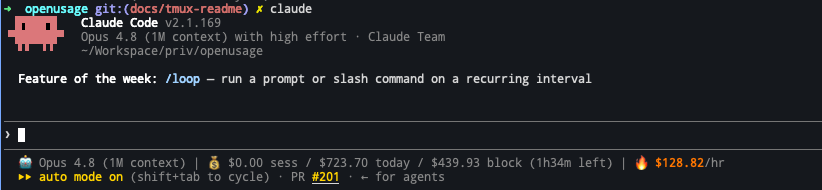
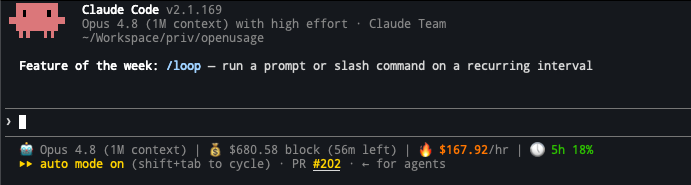
docs(statusline): add install gif, use the in-context screenshot, strengthen SEO
- README + docs guide: embed assets/statusline-install.gif (configurator in
  action, 5s–30s @ 2x, ~490KB) and swap to the in-context Claude Code screenshot
  (shows the live statusline incl. the 5h usage gauge); replaced the ASCII mock
  in the guide with the gif.
- SEO: surface both the tmux and statusline integrations more strongly — note
  their interactive live-preview installers and the 5h usage-window % in the
  JSON-LD featureList + FAQ, the website description, and llms.txt capabilities;
  add the tmux and statusline guide URLs to llms.txt resources; fix
  `statusline --install` -> `statusline install` everywhere.

Website and docs builds pass; JSON-LD validated.

diff --git a/website/index.html b/website/index.html
@@ -118,8 +118,8 @@
         "Session, client, project, and MCP activity views",
         "Burn rate and 5-hour billing-block projection",
         "Headless daily, weekly, monthly, session, and billing-block reports in JSON or table form",
-        "tmux status-bar integration with provider icons, presets, and active-tool detection",
-        "Claude Code statusline integration",
+        "tmux status-bar integration with real provider logos, presets, active-tool detection, and an interactive live-preview installer",
+        "Claude Code statusline with a live-preview installer: cost, burn rate, 5-hour usage-window %, and context-window %",
         "Background daemon with local SQLite history",
         "Hook integrations for Claude Code, Codex, and OpenCode",
         "Snapshot export to JSON or CSV",
@@ -165,7 +165,7 @@
           "name": "Can OpenUsage show AI usage in my tmux status bar or a Claude Code statusline?",
           "acceptedAnswer": {
             "@type": "Answer",
-            "text": "Yes. Run 'openusage tmux install' to add a tmux status segment with provider icons, presets, and active-tool detection, and 'openusage statusline --install' to add a Claude Code statusline showing session cost, today's cost, burn rate, and context usage."
+            "text": "Yes. Both have a one-screen, live-preview installer. Run 'openusage tmux install' to add a tmux status segment with real provider logos, presets, and active-tool detection. Run 'openusage statusline install' to add a Claude Code statusline showing the model, session/today/block cost, burn rate, the 5-hour usage-window percentage, and context-window usage; toggle which segments appear and watch a live preview before applying."
           }
         },
         {

diff --git a/docs/site/docs/guides/claude-code-statusline.md b/docs/site/docs/guides/claude-code-statusline.md
@@ -29,24 +29,7 @@ openusage statusline install
 
 This opens a one-screen, **live-preview configurator** (the same style as `openusage tmux install`). Toggle which segments you want, flip the options, and watch the preview update; press **enter** on **Apply** to write it into `~/.claude/settings.json` (your previous settings are backed up to `settings.json.bak`).
 
-```
-Configure your Claude Code statusline
-
-preview 🤖 Opus 4.8 | 💰 $12.40 sess / $6.79 today / $3.40 block (2h41m left) | 🔥 $1.20/hr | 🕔 5h 15% | 🧠 96k (48%)
-
-  [x] Model name
-  [x] Session cost
-  [x] Today's cost
-  [x] 5h block cost + time left
-  [x] Burn rate
-  [x] 5h usage window %
-  [x] Context window %
-  Color          ‹ on ›
-  Pricing        ‹ embedded (instant) ›
-  [ Apply ]
-
-↑/↓ move · ←/→ change · space toggle · enter apply · q cancel
-```
+![Installing the Claude Code statusline with the live-preview configurator](/img/statusline-install.gif)
 
 Then **restart Claude Code** (or open a new session) so it re-reads `settings.json`.
 

diff --git a/README.md b/README.md
@@ -127,7 +127,13 @@ Show live session cost, today's spend, the active 5-hour block, burn rate, and c
 openusage statusline install     # interactive: live-preview configurator
 ```
 
-Like the tmux installer, this opens a one-screen configurator where you toggle which segments to show (model, session/today/block cost, burn rate, context %) and watch a live preview, then writes it into `~/.claude/settings.json`. Restart Claude Code to see it. See the [statusline guide](docs/site/docs/guides/claude-code-statusline.md) for customization and manual setup.
+Like the tmux installer, this opens a one-screen configurator where you toggle which segments to show (model, session/today/block cost, burn rate, **5h usage window %**, context %) and watch a live preview, then writes it into `~/.claude/settings.json`. Restart Claude Code to see it.
+
+<p align="center">
+  <img src="./assets/statusline-install.gif" alt="Installing the Claude Code statusline with the live-preview configurator" width="720">
+</p>
+
+See the [statusline guide](docs/site/docs/guides/claude-code-statusline.md) for customization and manual setup.
 
 ## Track coding agent usage across multiple platforms
 